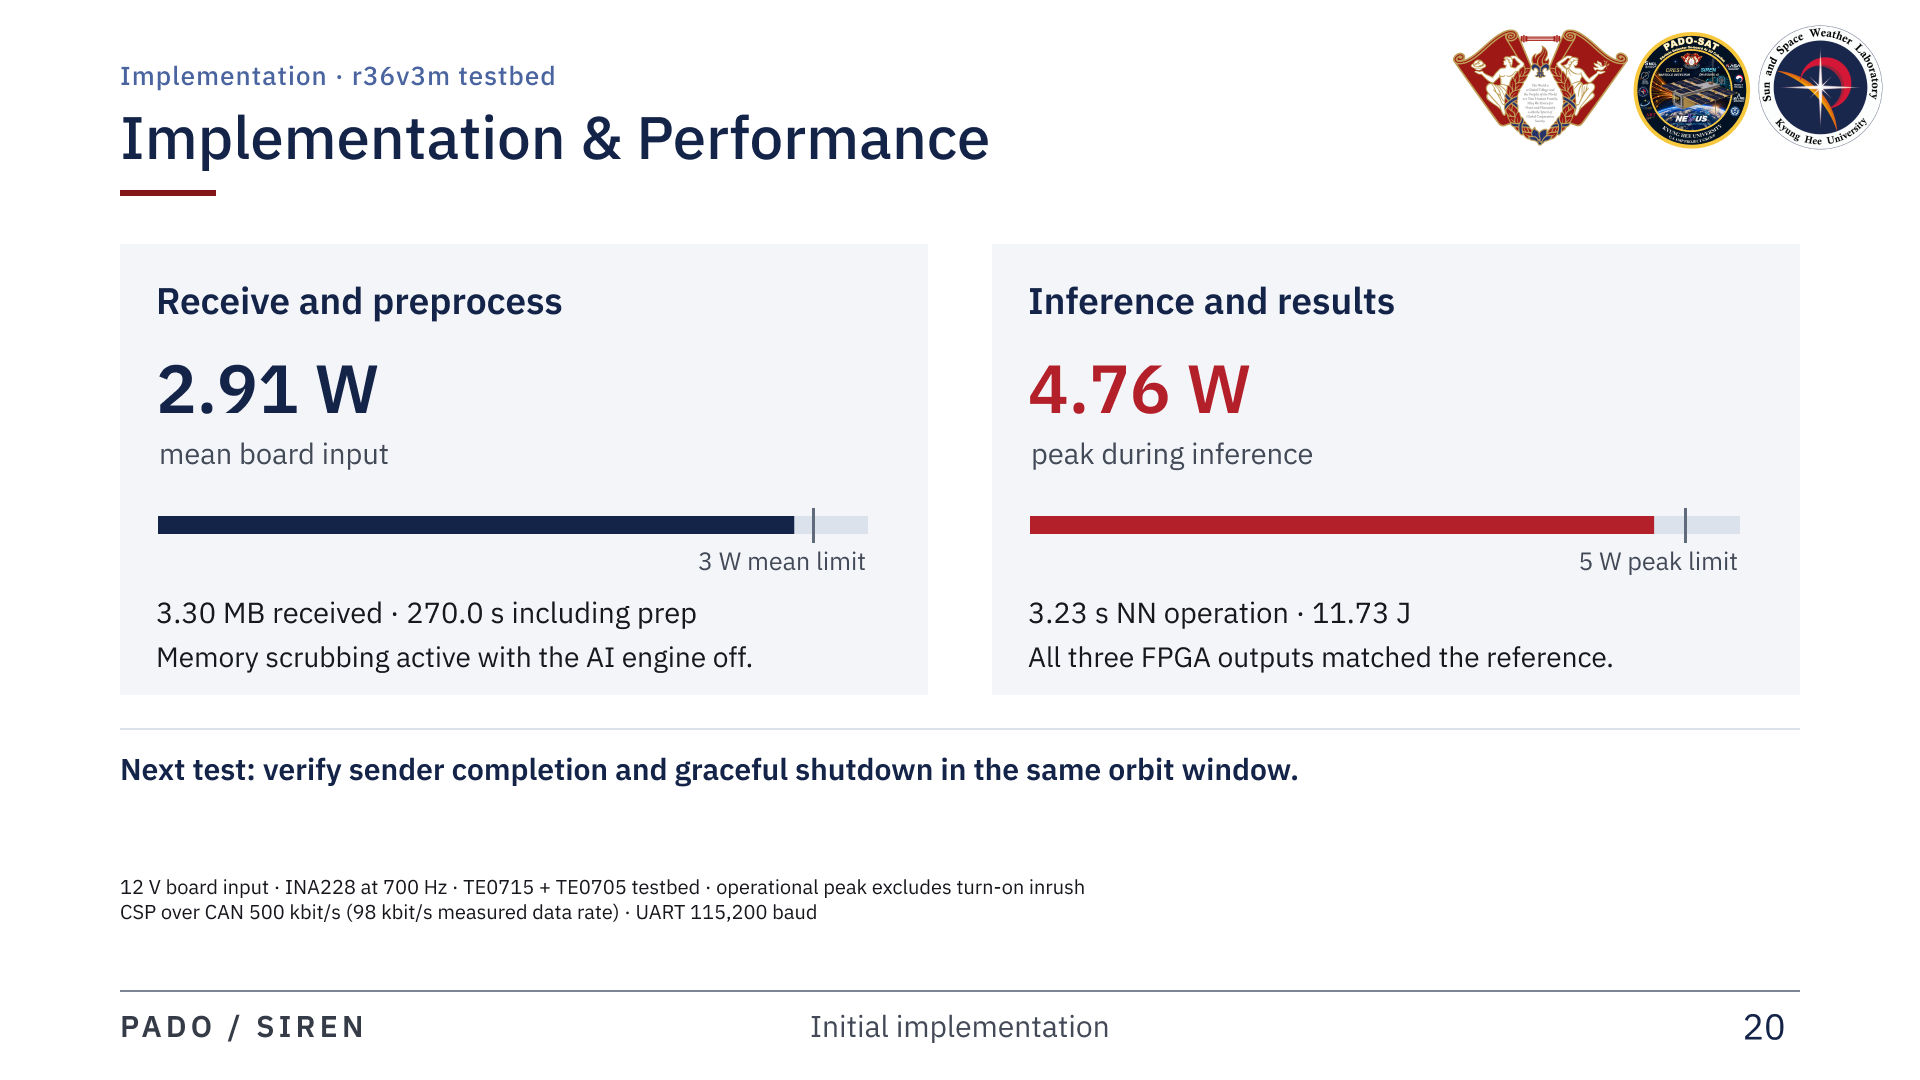
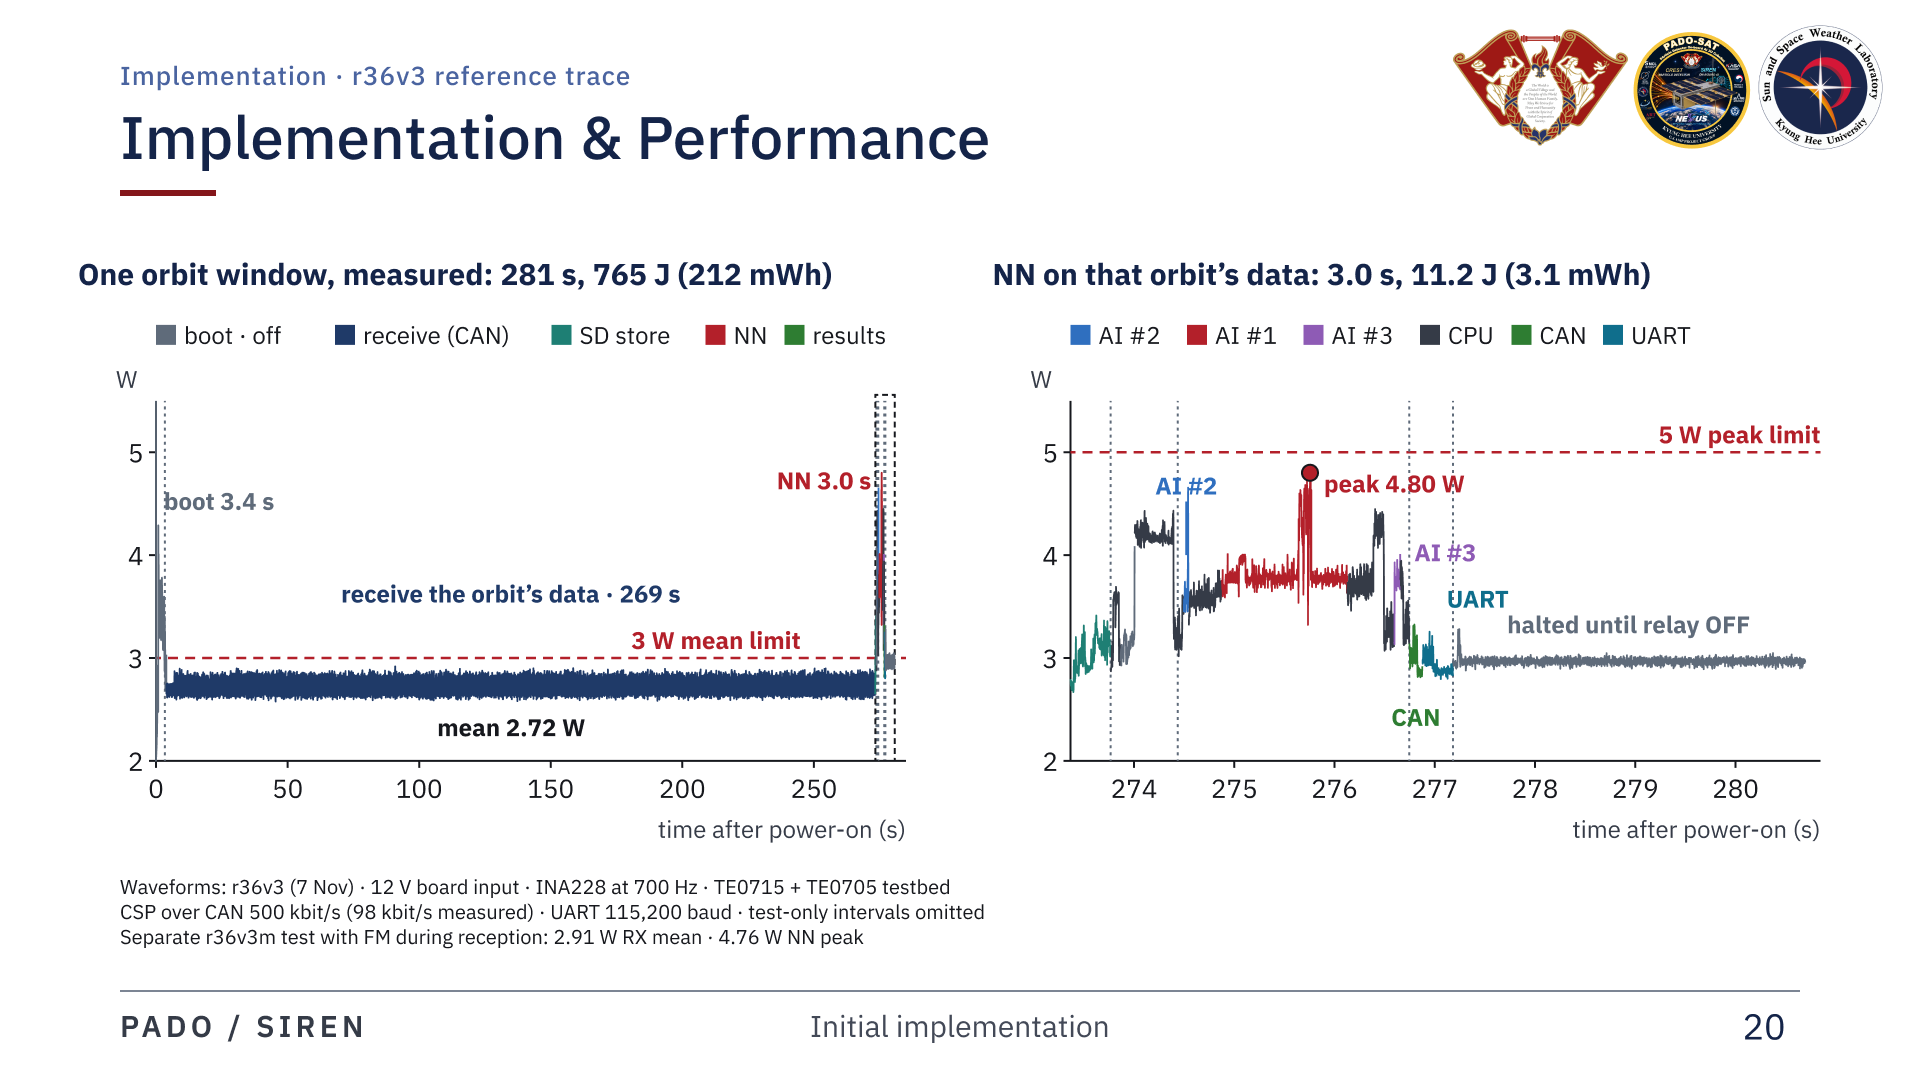
Restore time-series power plots on slide 20

diff --git a/README.md b/README.md
@@ -84,7 +84,7 @@ PADO-SAT의 온보드 AI 탑재체 SIREN 발표 자료입니다.
 
 ### 20. Implementation & Performance
 
-![Slide 20: Implementation & Performance](assets/slides/20.png?v=c7caf9ea94de)
+![Slide 20: Implementation & Performance](assets/slides/20.png?v=87ca4bf5568a)
 
 ### 21. Future Work and Summary
 
